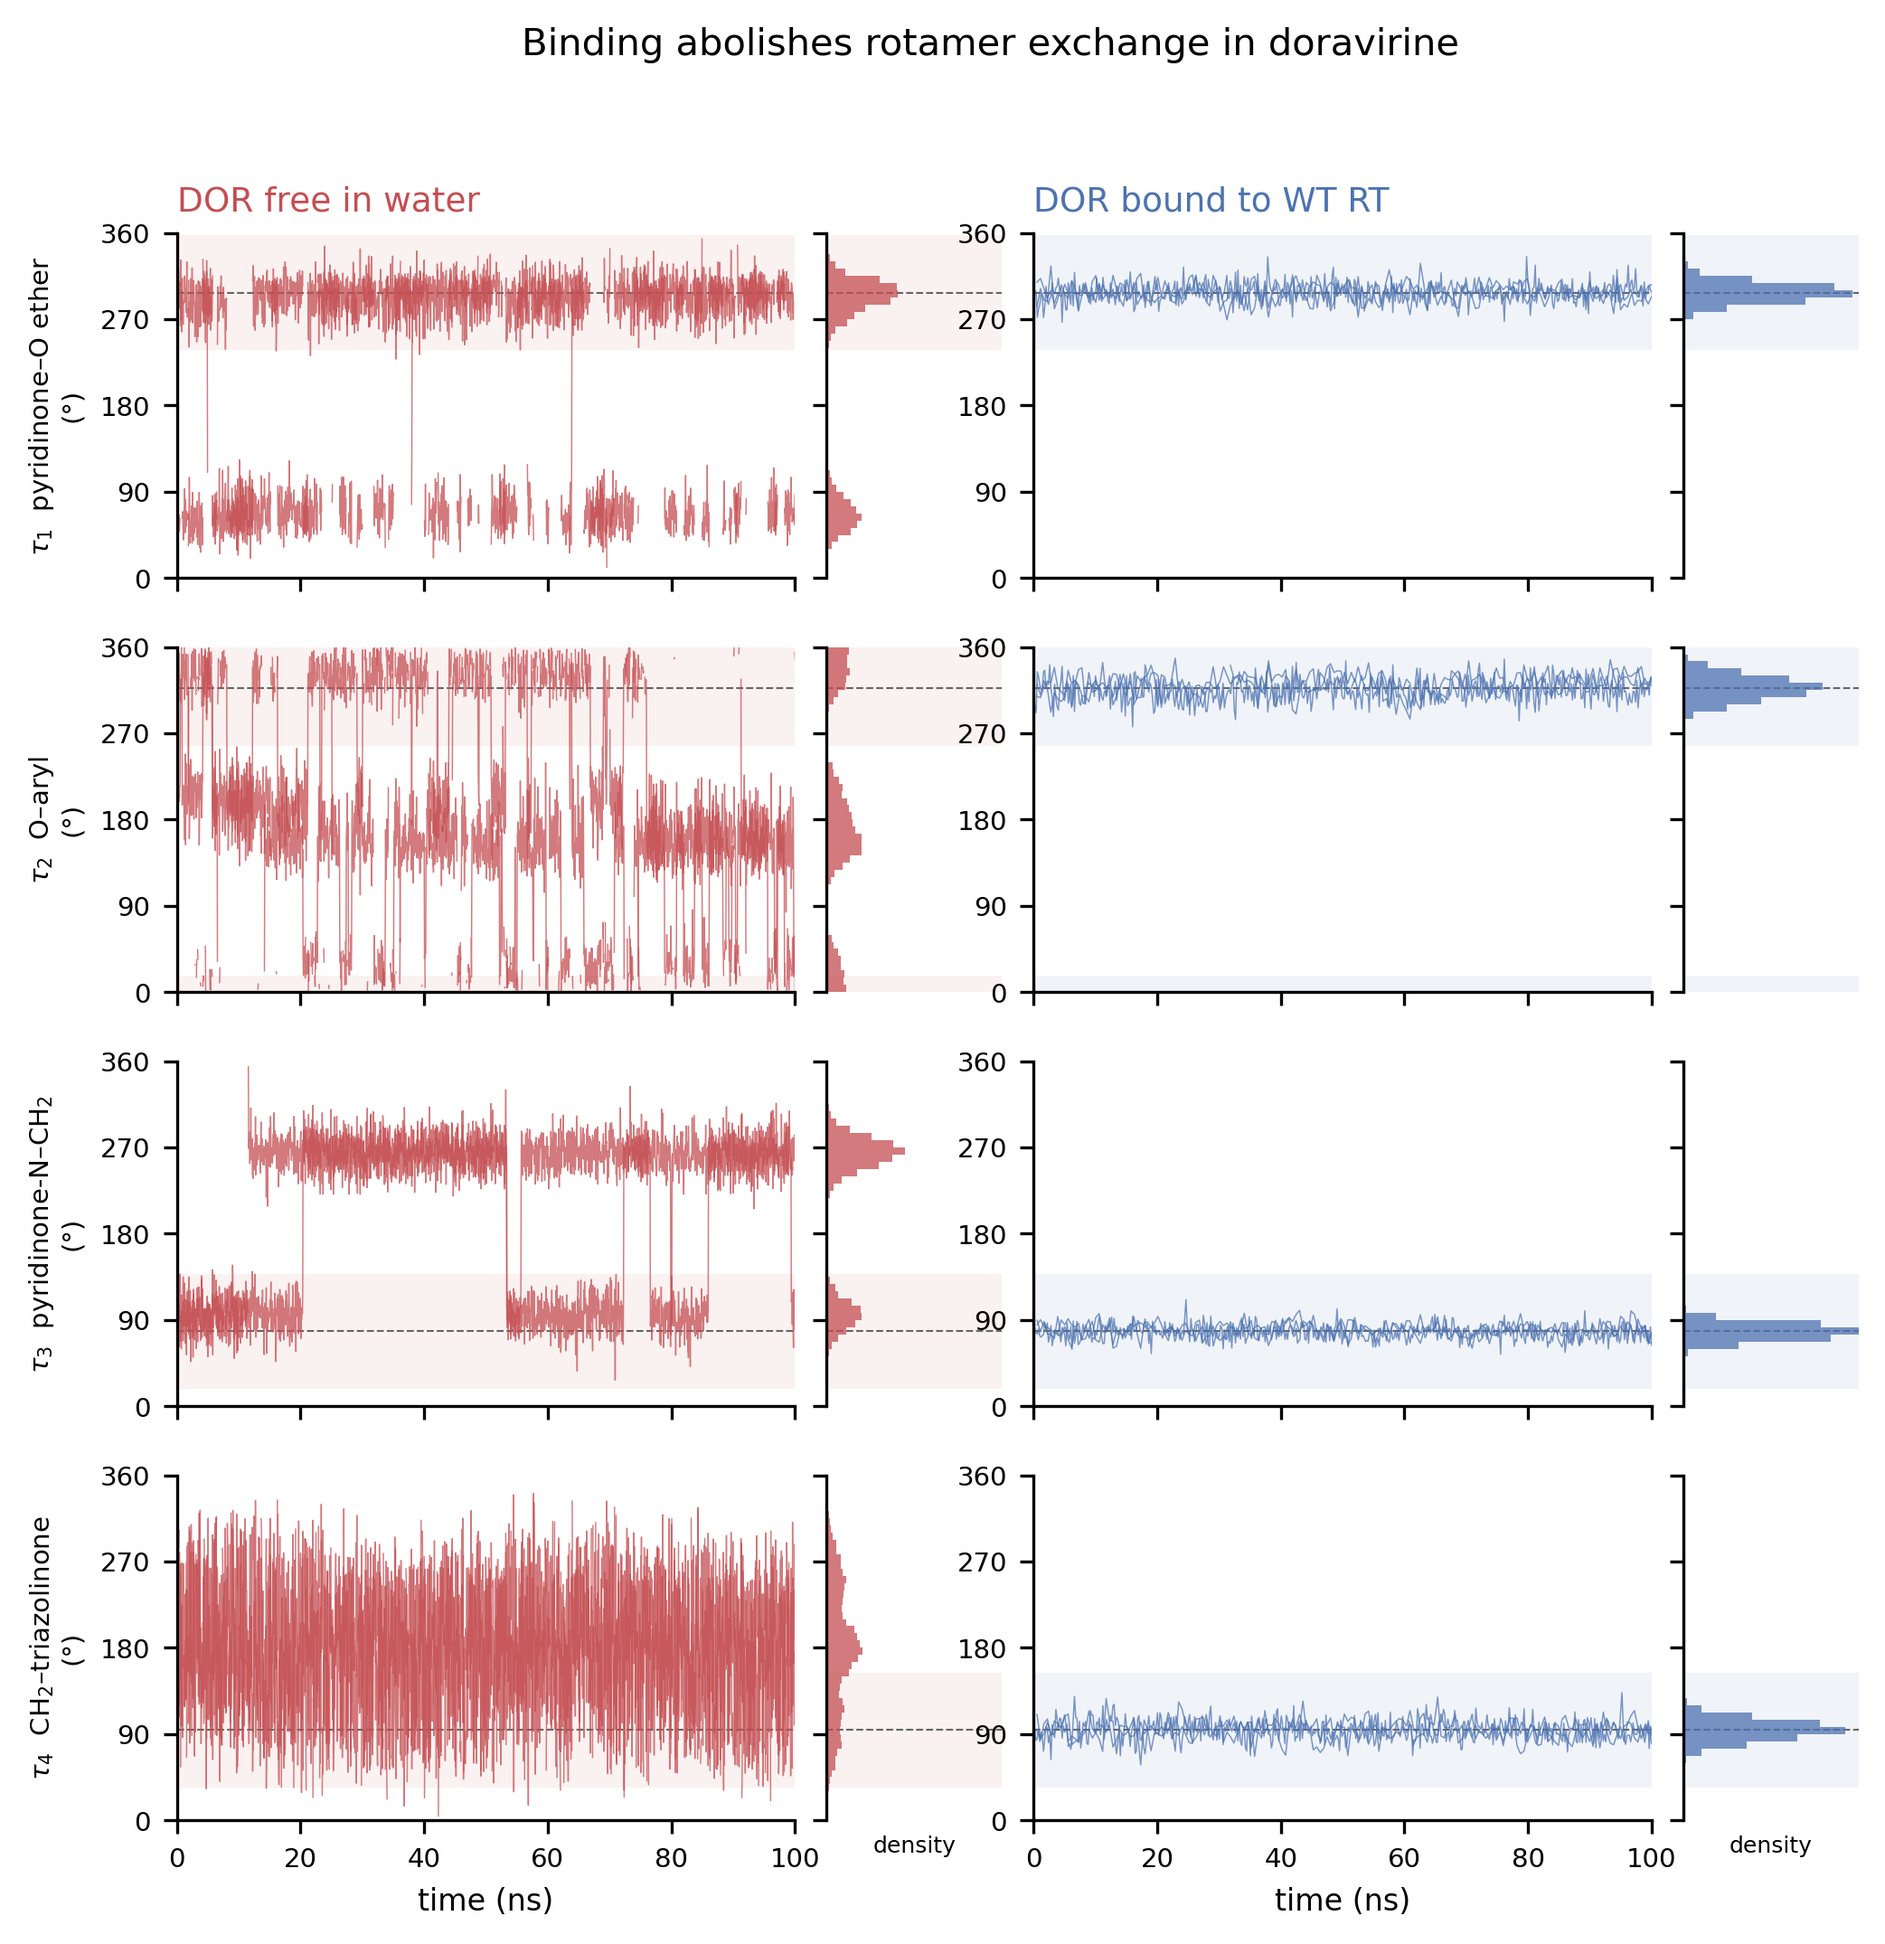
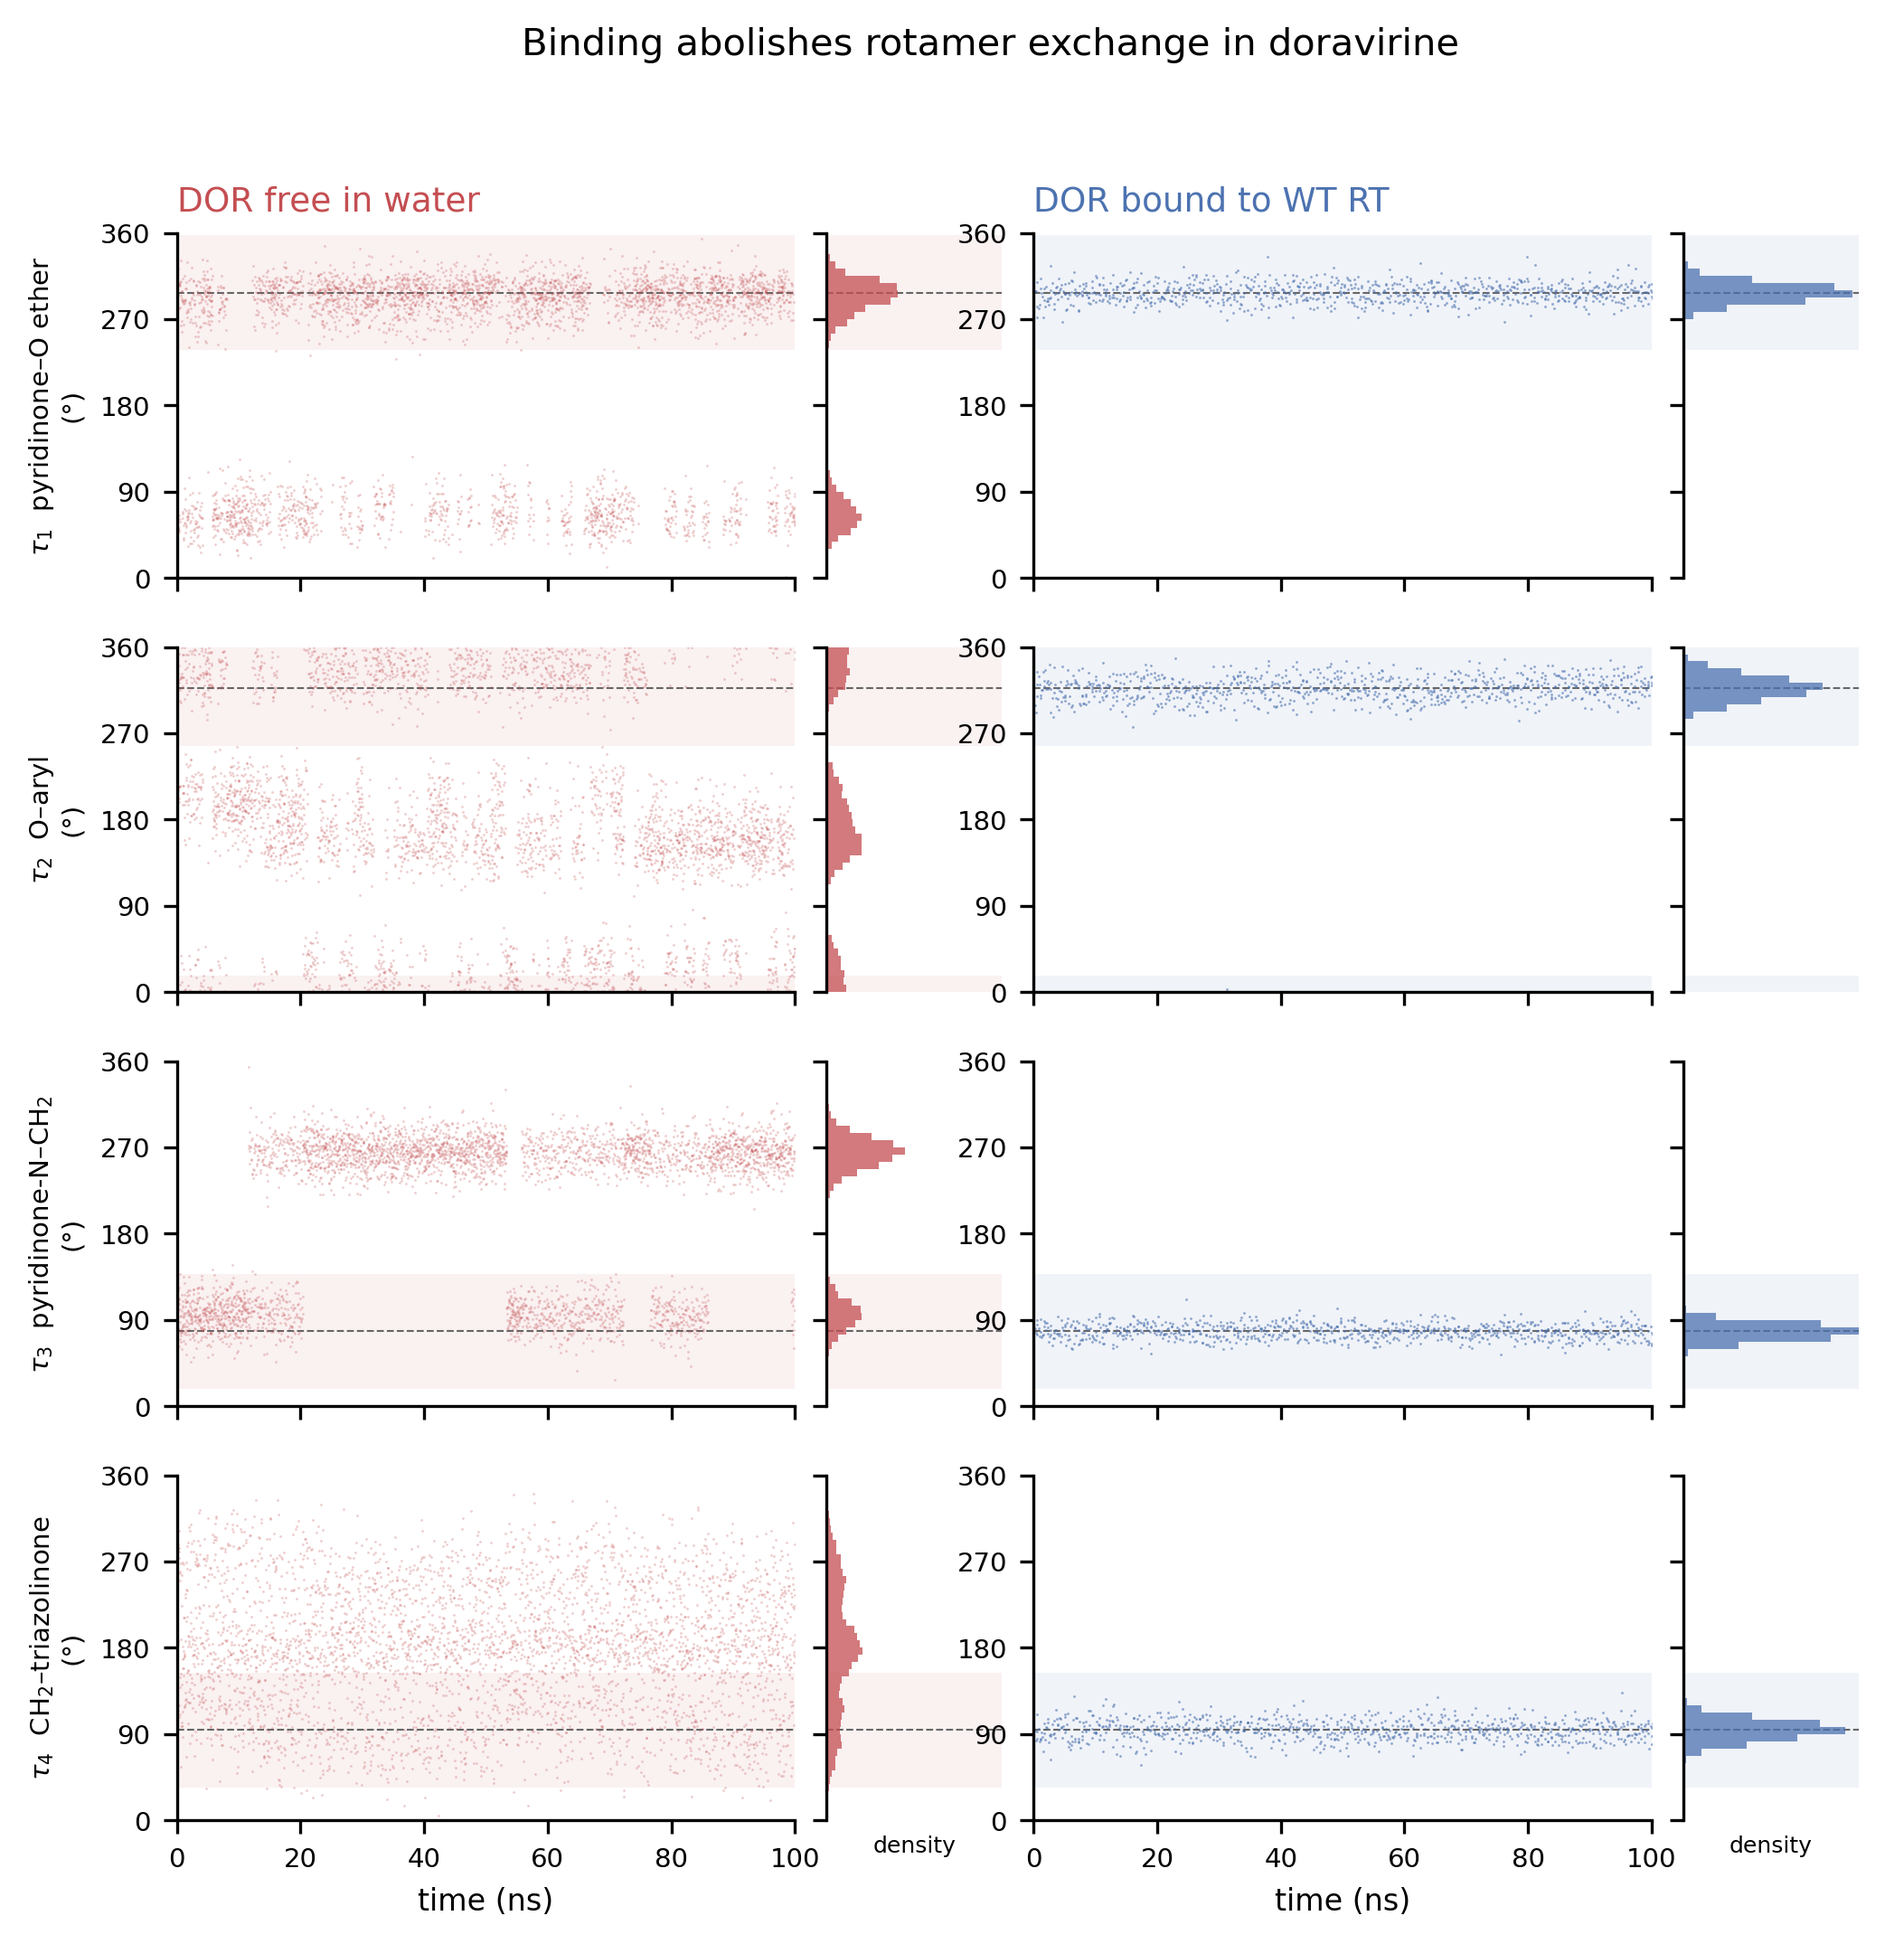
Scatter the samples instead of joining them
A wrapped angle needs a branch cut only because a line has to be drawn across
it. Points remove the reason: no connector, so no seam, no breaks, and the ink
sits where the samples actually are. The plateaus read as point clouds and the
transitions as the gaps between them.

Markers are the same size in both columns with opacity scaled so the columns
lay down comparable total ink. The free runs hold ~4.6x more frames purely
because they were written more often, and matching opacity as well would show
that output setting as though it were a difference in the data.

--trace broken and --trace cylinder keep the line versions.

diff --git a/src/nnrti/cli/plot_dor_torsion_kinetics.py b/src/nnrti/cli/plot_dor_torsion_kinetics.py
@@ -75,6 +75,14 @@ BASIN_HALF_WIDTH = 60.0
 #: Frames a state must persist before a change of state is accepted.
 MIN_RUN_FRAMES = 3
 
+#: Marker area and opacity per column, free then bound. Same size, with
+#: opacity scaled so the two columns lay down comparable total ink: the free
+#: runs hold ~4.6x more frames purely because they were written more often, and
+#: matching the opacity too would make that output setting look like a
+#: difference in the data.
+MARKER_SIZE = (1.8, 1.8)
+MARKER_ALPHA = (0.28, 0.60)
+
 FREE = "dor_solvent"
 BOUND_REF = "wt"
 
@@ -220,11 +228,13 @@ def main(argv: list[str] | None = None) -> int:
                    help="Lower edge of the plotted period. positive: 0-360 "
                         "(default). signed: -180..180. auto: per-torsion cut at "
                         "the emptiest angle.")
-    p.add_argument("--trace", choices=("broken", "cylinder"), default="broken",
-                   help="broken (default): wrapped to one period, line cut at "
-                        "the seam. cylinder: unwrapped but drawn once per turn "
-                        "on the same one-period axis, so a trace leaves the top "
-                        "and re-enters at the bottom instead of breaking.")
+    p.add_argument("--trace", choices=("points", "broken", "cylinder"),
+                   default="points",
+                   help="points (default): scattered samples, no line, so the "
+                        "branch cut costs nothing. broken: line cut at the "
+                        "seam. cylinder: unwrapped but drawn once per turn on "
+                        "the same one-period axis, so a line leaves the top and "
+                        "re-enters at the bottom instead of breaking.")
     args = p.parse_args(argv)
 
     plt = _style()
@@ -287,13 +297,21 @@ def main(argv: list[str] | None = None) -> int:
                 time_ns = (np.arange(len(g)) + 1) * dt
                 ang = _wrap(g[t].to_numpy(), cut)
                 pooled.append(ang)
-                if args.trace == "cylinder":
-                    segs = _cylinder_copies(time_ns, ang, lo, hi)
+                if args.trace == "points":
+                    # No line, so no seam: a wrapped angle needs a branch cut
+                    # only because a line has to be drawn across it. Points
+                    # sidestep the whole problem and show the plateaus more
+                    # honestly, since the ink is where the samples are.
+                    ax.scatter(time_ns, ang, s=MARKER_SIZE[j],
+                               alpha=MARKER_ALPHA[j], color=colour,
+                               linewidths=0, marker=".", rasterized=True)
                 else:
-                    segs = [_break_at_seam(time_ns, ang)]
-                for xs, ys in segs:
-                    ax.plot(xs, ys, lw=0.35, alpha=0.75, color=colour,
-                            rasterized=True)
+                    segs = (_cylinder_copies(time_ns, ang, lo, hi)
+                            if args.trace == "cylinder"
+                            else [_break_at_seam(time_ns, ang)])
+                    for xs, ys in segs:
+                        ax.plot(xs, ys, lw=0.35, alpha=0.75, color=colour,
+                                rasterized=True)
 
             dens, _, _ = axm.hist(np.concatenate(pooled), bins=bins, density=True,
                                    orientation="horizontal", color=colour,
@@ -324,7 +342,7 @@ def main(argv: list[str] | None = None) -> int:
     fig.suptitle("Binding abolishes rotamer exchange in doravirine", fontsize=10)
     fig.tight_layout(rect=(0, 0, 1, 0.98))
     args.output_dir.mkdir(parents=True, exist_ok=True)
-    suffix = "" if args.trace == "broken" else f"_{args.trace}"
+    suffix = "" if args.trace == "points" else f"_{args.trace}"
     f1 = args.output_dir / f"dor_torsion_trajectories{suffix}.png"
     fig.savefig(f1, dpi=300)
     plt.close(fig)
